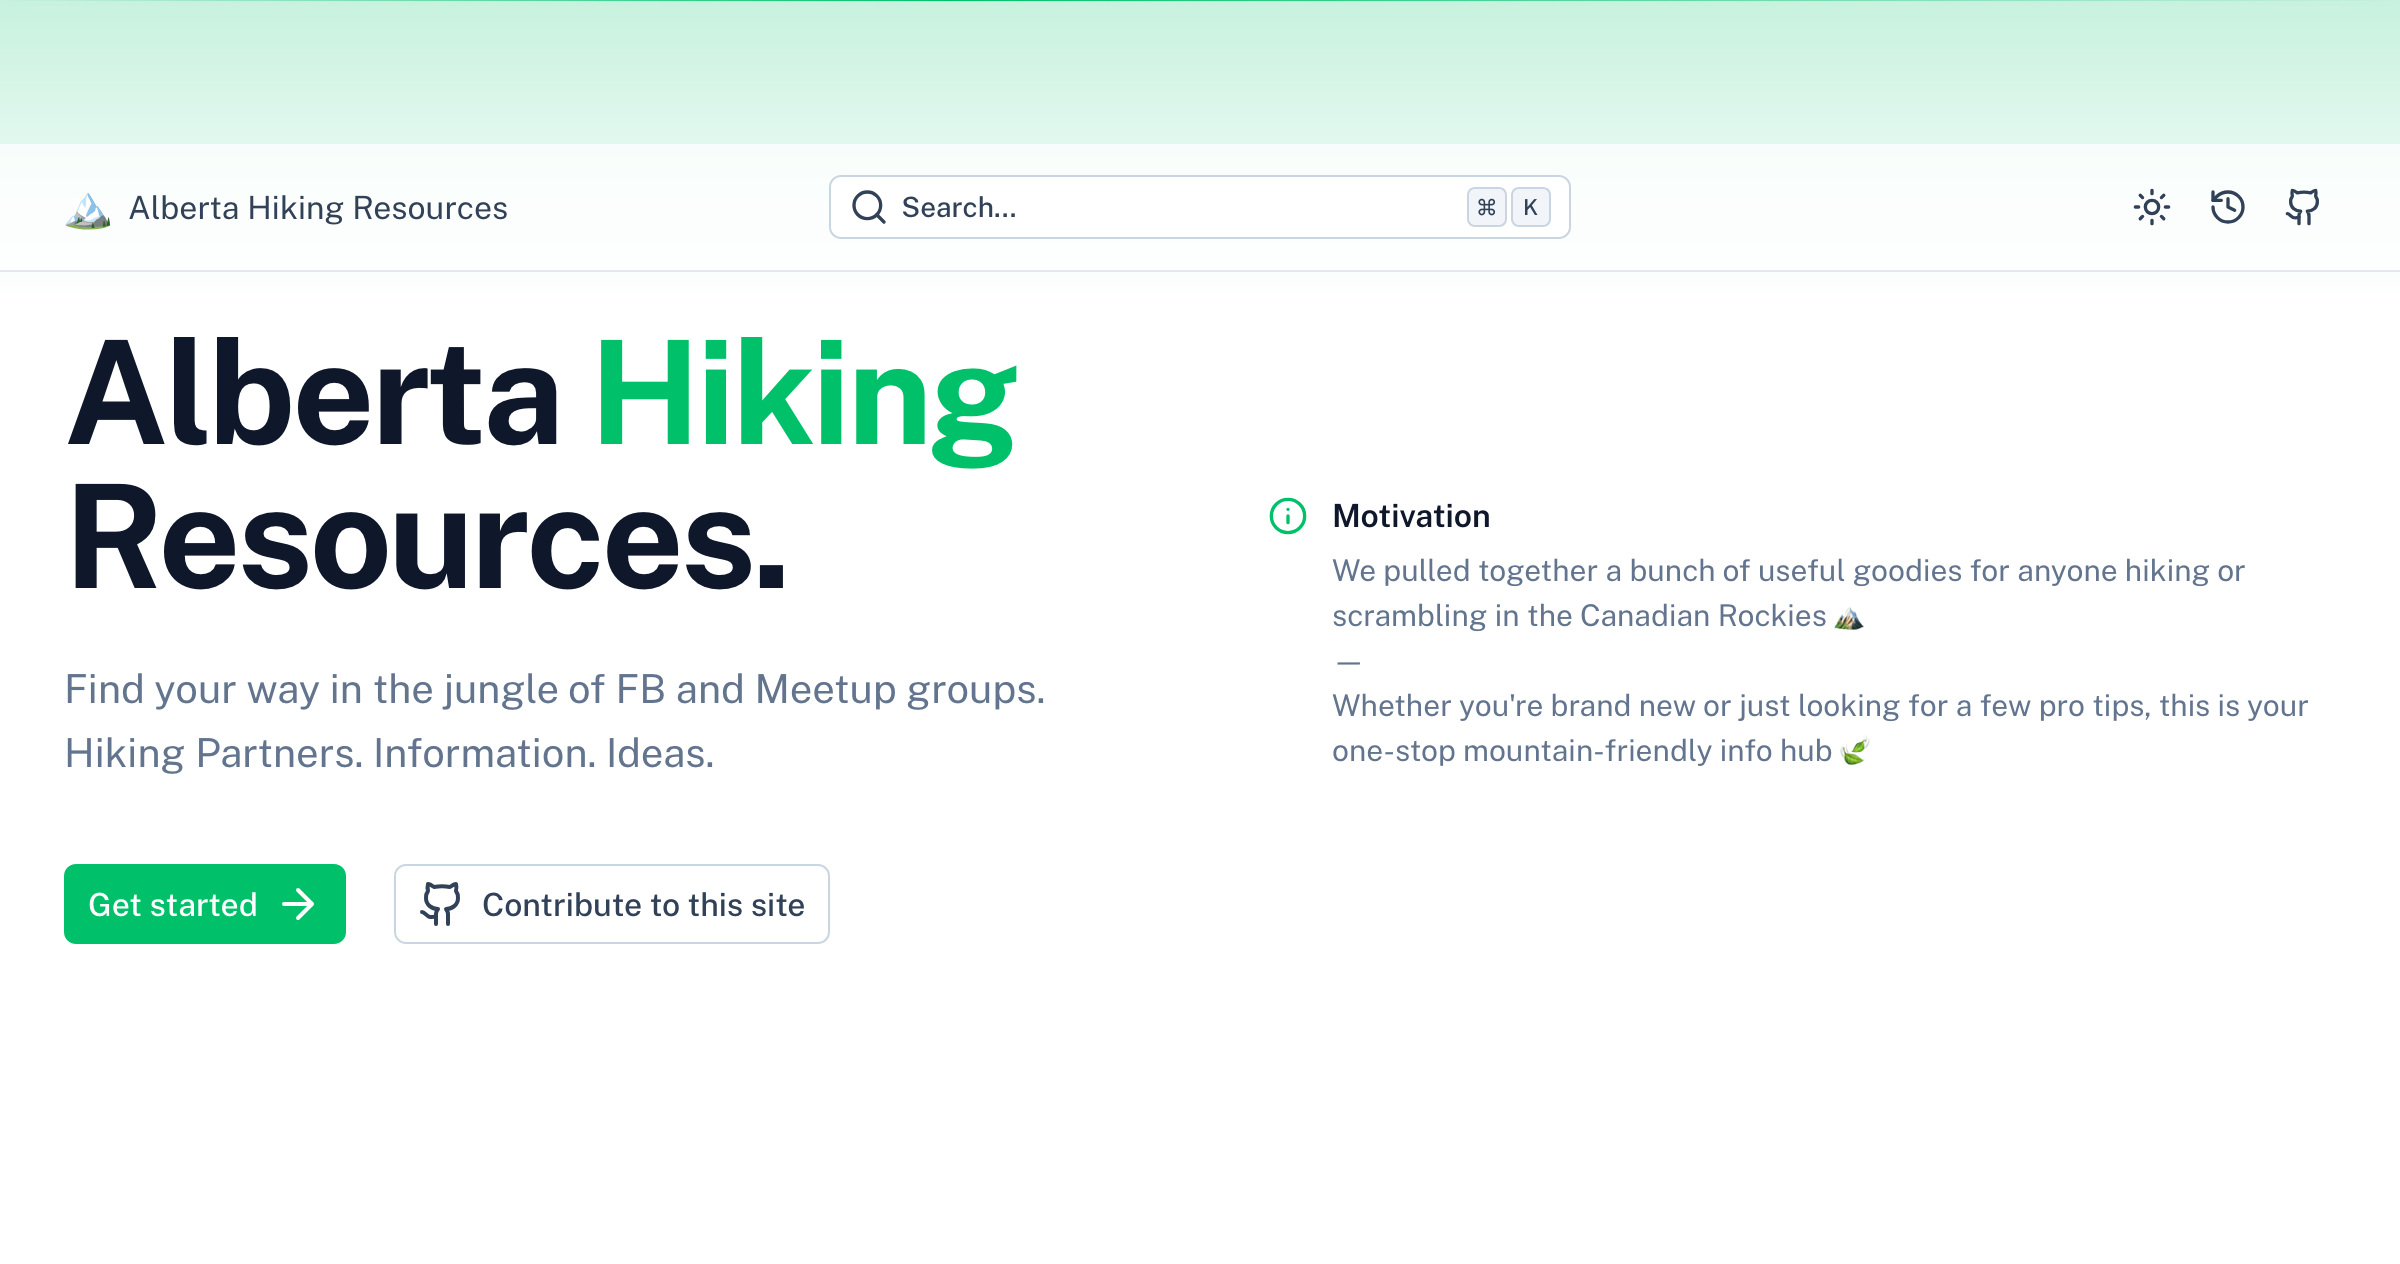
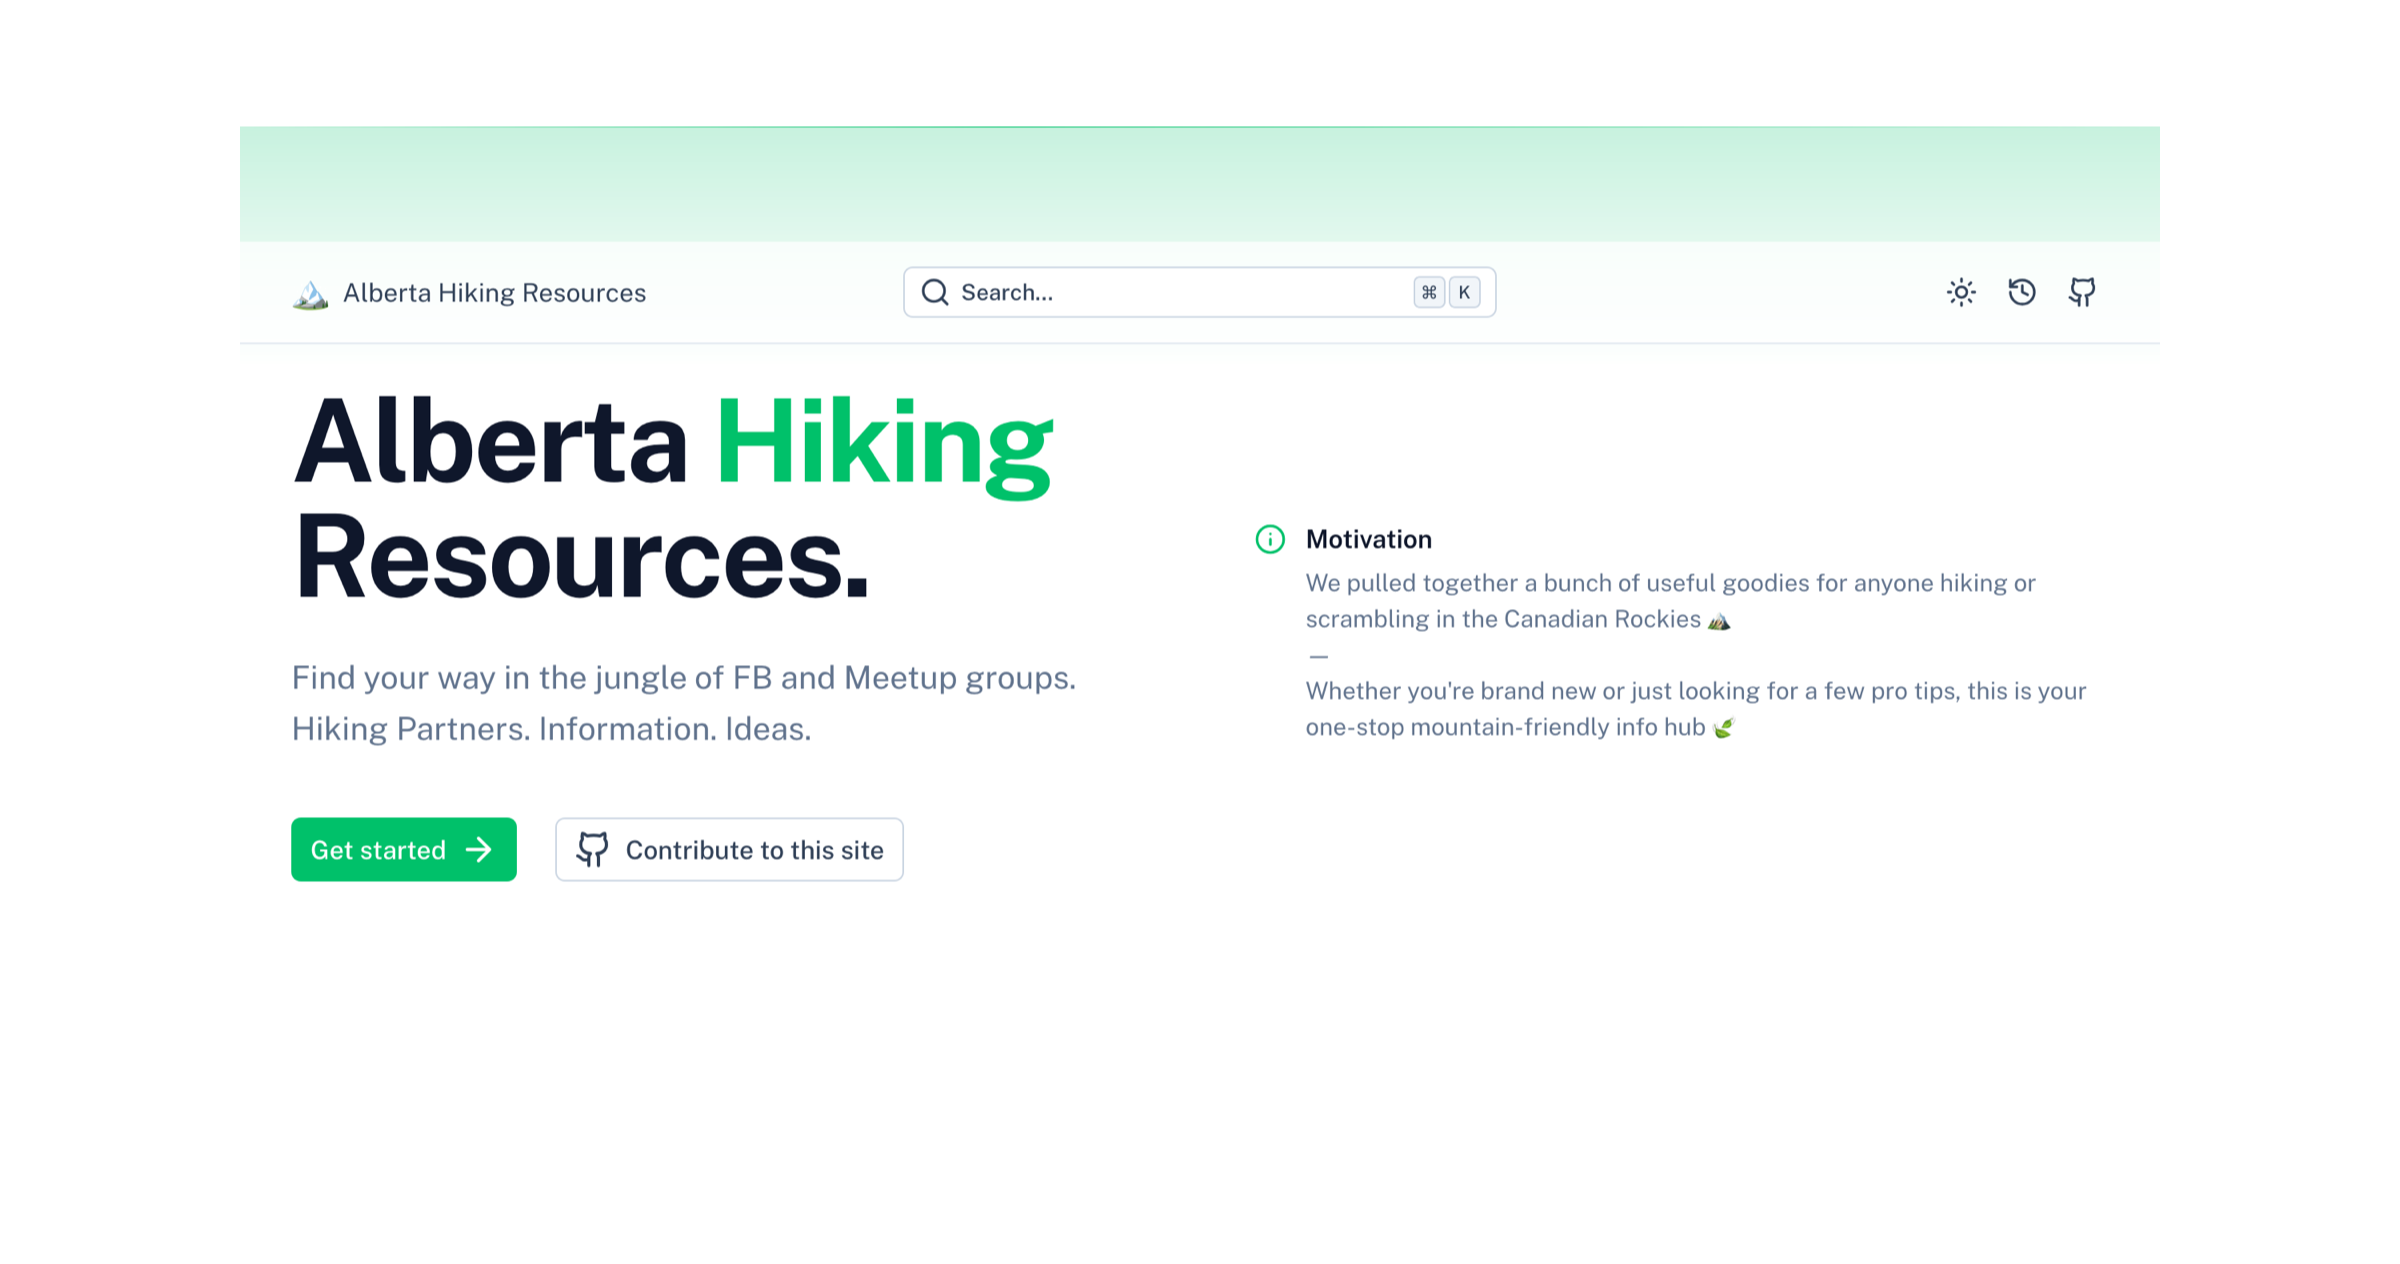
feat(og): add safe margin to homepage OG image so X doesn't crop the title
X's summary_large_image card crops slightly inward, clipping the "A" of
Alberta and "R" of Resources in the edge-to-edge landing screenshot.
Scale the image to ~80% and center it on the 1200x630 canvas for a ~10%
safe margin on all sides, and document the requirement in the README.

diff --git a/README.md b/README.md
@@ -123,6 +123,18 @@ To regenerate the landing page OG image:
 4. Take a screenshot of the viewport (DevTools > Run command > "Capture screenshot")
 5. Save as `public/images/og.png`
 
+> **Keep a safe margin.** X (Twitter) crops the `summary_large_image` card
+> slightly inward, so content flush against the edges (the "Alberta … Resources"
+> title) gets clipped. Keep important content within the central ~80% — i.e.
+> roughly a 10% margin on every side. A raw viewport screenshot puts the title
+> hard against the left edge, so scale the screenshot down to ~80% and center it
+> on a 1200×630 white canvas before saving, e.g. with `sips`:
+>
+> ```bash
+> sips -z 1011 1920 og-raw.png --out og-scaled.png
+> sips -p 1264 2400 --padColor FFFFFF og-scaled.png --out public/images/og.png
+> ```
+
 #### Validate Open Graph Image rendering
 
 - [X Card Validator](https://www.schedulethreads.com/tools/twitter-x-card-validator)